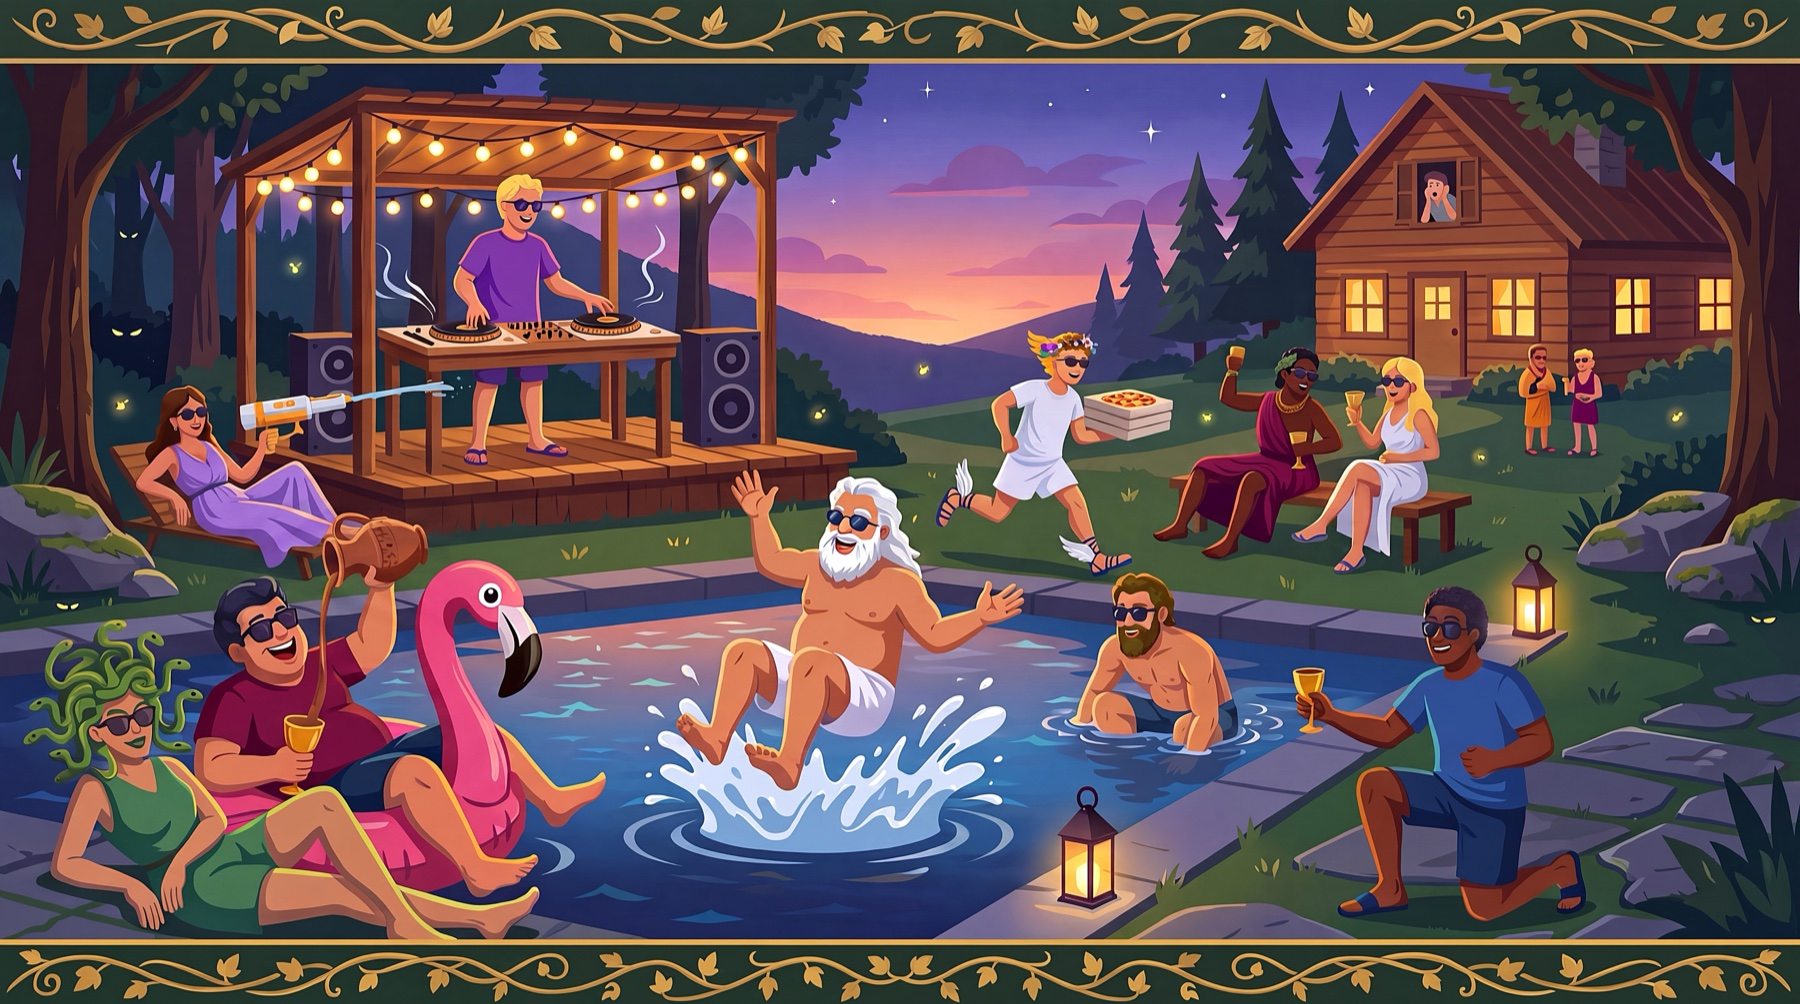
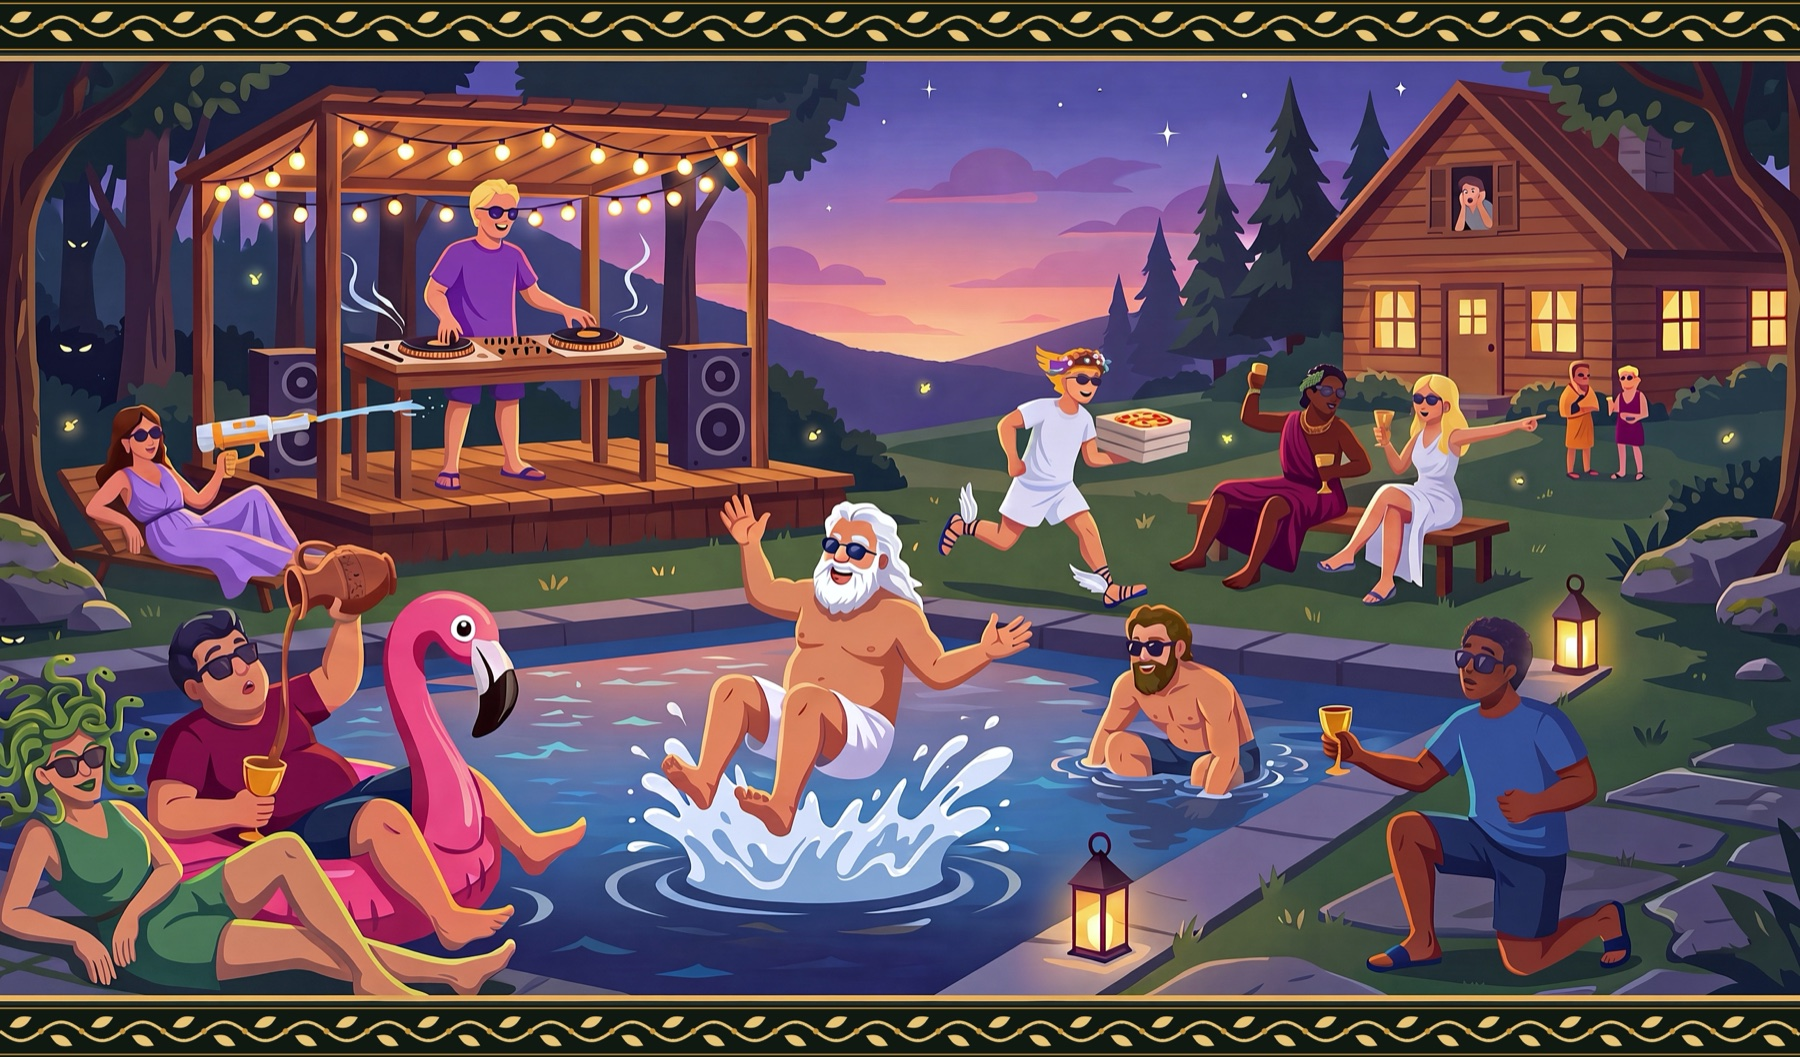
forest art round 2: P1 gains the noticing/pointing beat, all three re-graded deterministically (pink cast killed), uniform PIL vine bands replace inconsistent generated borders

diff --git a/forest.html b/forest.html
@@ -283,7 +283,7 @@
       </div>
     </div>
     <figure class="art reveal">
-      <img src="img/forest-p1.jpg" width="1800" height="1004" alt="Dusk at the forest's edge: lanterns coming on around the pool, the house windows glowing warm — one guest already hiding upstairs, and something watching from the dark treeline" loading="lazy"/>
+      <img src="img/forest-p1.jpg" width="1800" height="1057" alt="Dusk at the forest's edge: lanterns coming on around the pool, the house windows glowing warm — one guest already hiding upstairs, spotted and pointed at, while something watches from the dark treeline" loading="lazy"/>
       <figcaption>FRIDAY — AT THE TREELINE</figcaption>
     </figure>
   </div>
@@ -369,7 +369,7 @@
 
     </div>
     <figure class="art reveal">
-      <img src="img/forest-p2.jpg" width="1800" height="1004" alt="Golden hour in the glade: Artemis the cow crowned with wildflowers on her mossy mound, the sun haloing behind her head through the canopy, a sunglassed gorilla playing keep-away in the pool, and a giant toadstool bounce castle mid-bounce" loading="lazy"/>
+      <img src="img/forest-p2.jpg" width="1800" height="1012" alt="Golden hour in the glade: Artemis the cow crowned with wildflowers on her mossy mound, the sun haloing behind her head through the canopy, a sunglassed gorilla playing keep-away in the pool, and a giant toadstool bounce castle mid-bounce" loading="lazy"/>
       <figcaption>SATURDAY — IN THE GLADE</figcaption>
     </figure>
     <div class="banquet reveal">
@@ -480,7 +480,7 @@
 
     </div>
     <figure class="art reveal">
-      <img src="img/forest-p3.jpg" width="1800" height="1004" alt="Deep night in the woods: the rave under string lights, rainbow beams sweeping through the trees, glowing wisps, a dancing gorilla, three green visitors — one firing a water gun at the crowned cow — and a mysterious glow above the canopy" loading="lazy"/>
+      <img src="img/forest-p3.jpg" width="1800" height="1057" alt="Deep night in the woods: the rave under string lights, rainbow beams sweeping through the trees, glowing wisps, a dancing gorilla, three green visitors — one firing a water gun at the crowned cow — and a mysterious glow above the canopy" loading="lazy"/>
       <figcaption>SATURDAY NIGHT — DEEP IN</figcaption>
     </figure>
   </div>